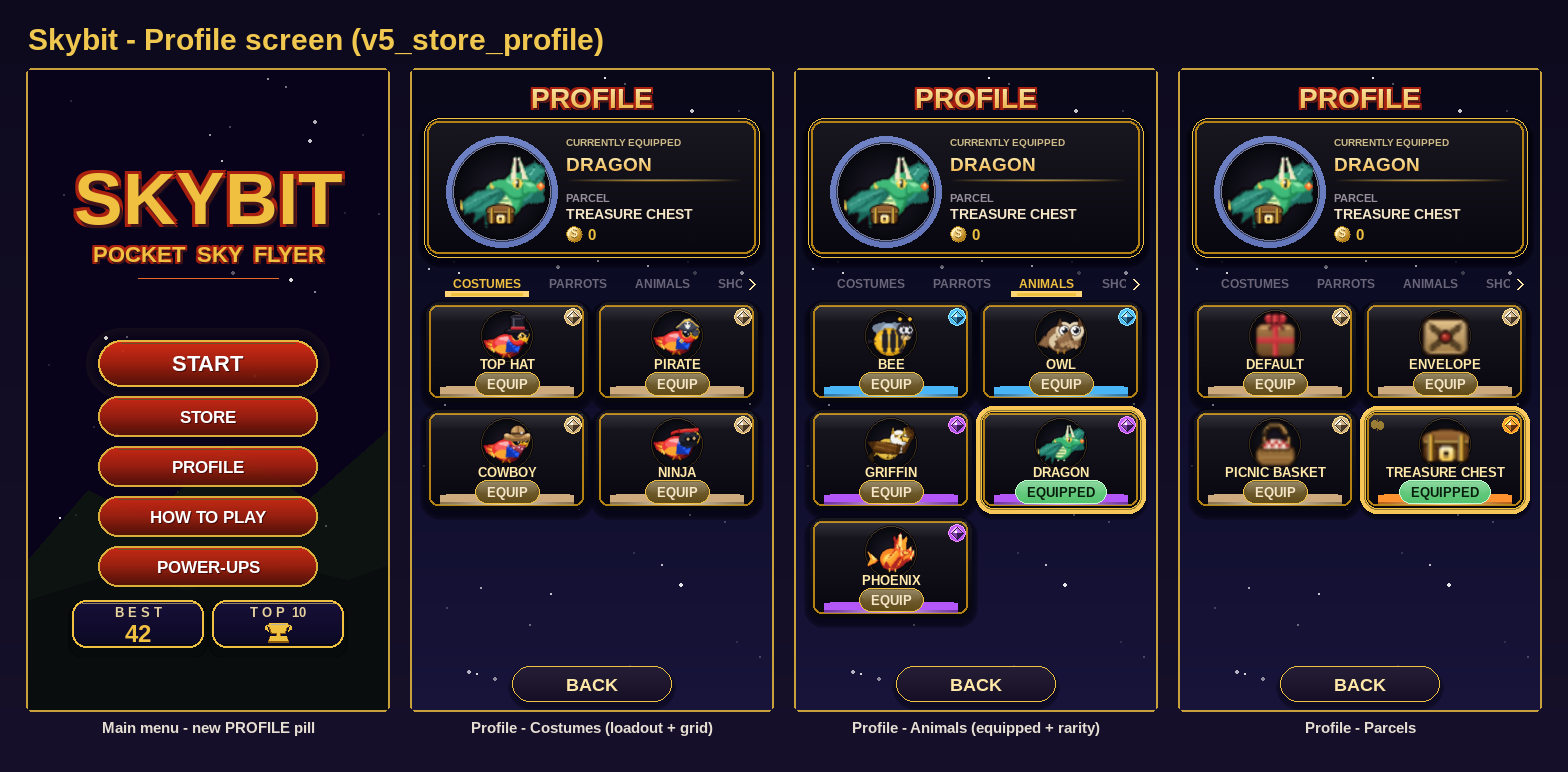
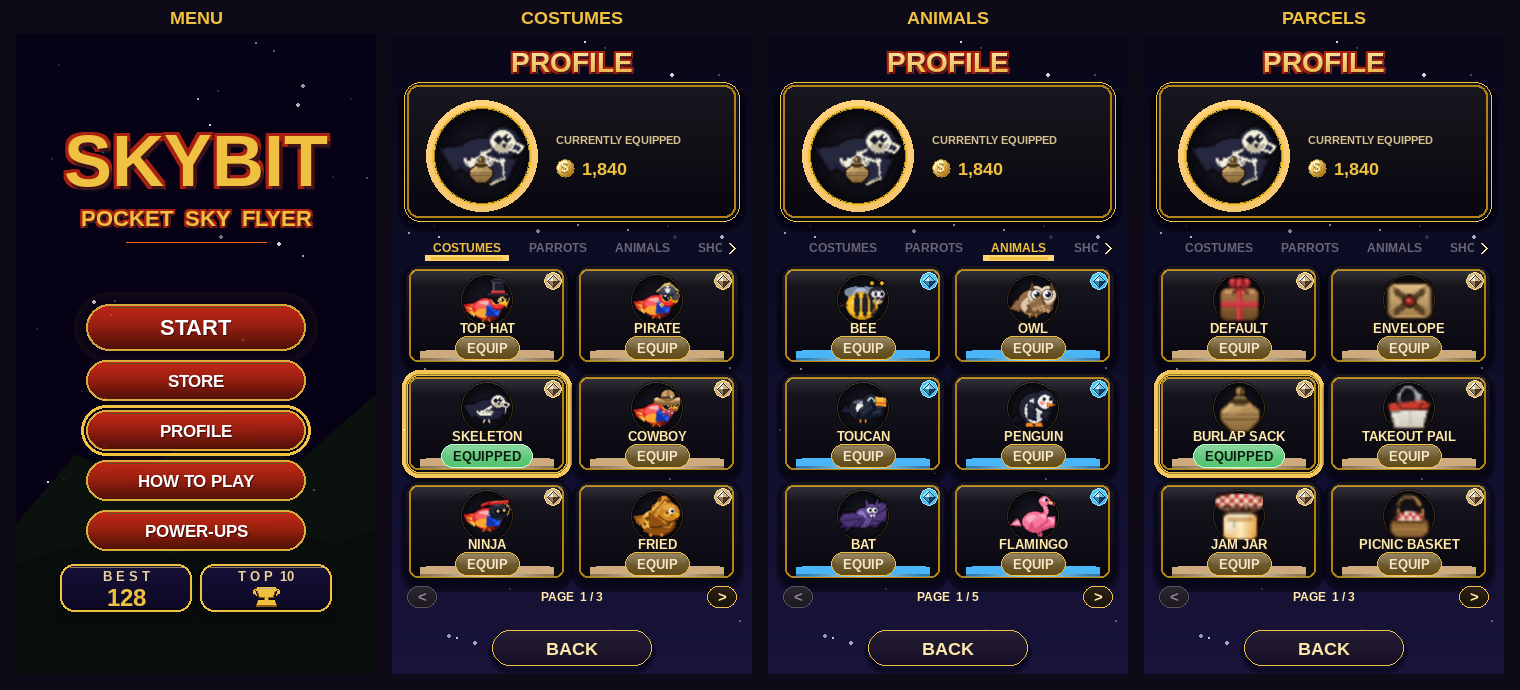
Profile loadout panel: drop item names, gold stage rim
The loadout stage named a single equipped skin + parcel, but a loadout is
several worn items at once, so naming one is misleading — the bird composite
on the disc already shows the full look. Remove the skin name, PARCEL
label/name, and the divider rule; the right column is now just a centred
CURRENTLY EQUIPPED caption over the coin balance, leaving the band free for a
future stats block.

Recolour the stage disc's halo + rim from periwinkle to warm gold: the old blue
read as the RARE rarity hue and muddied the rarity language. Refresh the review
figure to match.

Claude-Session: https://claude.ai/code/session_01AuwSUZ2K1MV3qNcDYtHTKX

diff --git a/game/profile.py b/game/profile.py
@@ -22,7 +22,7 @@ import pygame
 from game.config import W, H, PARCEL_Y_OFFSET
 from game.hud import _font, _draw_overlay_stars, \
     _GOLD_BRIGHT, _GOLD_PALE, _GOLD_DEEP, _RED_OUTLINE
-from game.draw import UI_CREAM, NEAR_BLACK, WHITE, rounded_rect, lerp_color
+from game.draw import NEAR_BLACK, WHITE, rounded_rect, lerp_color
 from game.powerup_help import _seeded_stars
 from game import parrot
 from game import store_catalog
@@ -31,7 +31,7 @@ from game import store_data
 # wholesale so the two screens can never drift apart.
 from game.store import (
     _vgrad_panel, _drop_shadow, _inset_disc, _shelf_bar, _gem, _gold_leaf,
-    _gradient_text, _gold_rule, _chip, _draw_chevron, _fit_skin, _slot_of,
+    _gradient_text, _chip, _draw_chevron, _fit_skin, _slot_of,
     _coin_glyph, _soft_glow,
     _CARD_W, _CARD_H, _GAP, _THUMB_BOX, _TABS, _BG_STOPS, _OBS_TOP, _OBS_BOT,
 )
@@ -180,9 +180,11 @@ class ProfileScene:
 
     def _draw_loadout(self, surf) -> None:
         """The persistent hero stage: a wide obsidian panel with the live bird on
-        a lit disc at the left, and the equipped skin/parcel names + coin balance
-        at the right. Always on screen so the player sees their current look while
-        they browse the grid below."""
+        a gold-rimmed disc at the left and a small CURRENTLY EQUIPPED caption over
+        the coin balance at the right. The bird itself is the readout of what's
+        worn — a loadout is several items at once, so no single item is named.
+        Always on screen so the player sees their current look while they browse
+        the grid below; the right band stays light for a future stats block."""
         panel = pygame.Rect(12, 48, W - 24, 140)
         _drop_shadow(surf, panel, 16, blur=6, alpha=140)
         surf.blit(_vgrad_panel(panel.w, panel.h, 16, _OBS_TOP, _OBS_BOT, 252),
@@ -197,10 +199,15 @@ class ProfileScene:
 
         # Lit stage disc + the animated bird (wings cycle off self.t at the
         # entity's idle flap rate; four frames, modulo'd by the skin builders).
+        # A warm-gold rim (not the old periwinkle halo, which read as the RARE
+        # rarity blue) keeps the perimeter in the screen's gold furniture without
+        # borrowing a rarity hue.
         stage_cx = panel.x + 78
         stage_cy = panel.centery + 4
-        _soft_glow(surf, stage_cx, stage_cy, 56, (90, 110, 170), 60, layers=5)
+        _soft_glow(surf, stage_cx, stage_cy, 56, (236, 190, 96), 46, layers=5)
         _inset_disc(surf, stage_cx, stage_cy, 50)
+        pygame.draw.circle(surf, (*_GOLD_BRIGHT, 220), (stage_cx, stage_cy), 50, 2)
+        pygame.draw.circle(surf, (*_GOLD_DEEP, 180), (stage_cx, stage_cy), 48, 1)
         fidx = int(self.t * 8.0) % 4
         sprite = self._loadout_sprite(skin, pid, fidx)
         box = 86
@@ -210,30 +217,18 @@ class ProfileScene:
             sprite, (max(1, int(sw * scale)), max(1, int(sh * scale))))
         surf.blit(sprite, sprite.get_rect(center=(stage_cx, stage_cy)))
 
-        # Right column: what's worn + the wallet.
-        tx = panel.x + 142
-        lbl = _font(10, True).render("CURRENTLY EQUIPPED", True, _GOLD_PALE)
-        lbl.set_alpha(200)
-        surf.blit(lbl, (tx, panel.y + 18))
-
-        sname = self._disp_name(skin)
-        _gradient_text(surf, sname, _font(19, True),
-                       (tx + _font(19, True).size(sname)[0] // 2, panel.y + 46),
-                       (255, 246, 196), (236, 170, 60), shadow=True)
-        _gold_rule(surf, tx, panel.right - 18, panel.y + 62)
-
-        pf = _font(11, True)
-        plabel = pf.render("PARCEL", True, (150, 142, 158))
-        surf.blit(plabel, (tx, panel.y + 74))
-        pname = _font(14, True).render(self._disp_name(pid), True, UI_CREAM)
-        surf.blit(pname, (tx, panel.y + 88))
-
-        # Coin balance — quieter than the Store's hero capsule (nothing is spent
+        # Right column: a compact group centred against the stage — the caption
+        # over the wallet. Quieter than the Store's hero capsule (nothing is spent
         # here), just a small ledger of what the player has banked.
-        by = panel.y + 116
-        _coin_glyph(surf, tx + 8, by, 8)
-        bimg = _font(15, True).render(f"{store_data.balance():,}", True, _GOLD_BRIGHT)
-        surf.blit(bimg, bimg.get_rect(midleft=(tx + 22, by)))
+        tx = panel.x + 152
+        gcy = stage_cy
+        lbl = _font(11, True).render("CURRENTLY EQUIPPED", True, _GOLD_PALE)
+        lbl.set_alpha(210)
+        surf.blit(lbl, (tx, gcy - 22))
+        by = gcy + 12
+        _coin_glyph(surf, tx + 9, by, 9)
+        bimg = _font(18, True).render(f"{store_data.balance():,}", True, _GOLD_BRIGHT)
+        surf.blit(bimg, bimg.get_rect(midleft=(tx + 26, by)))
 
     # ── tab strip (owned tabs only) ────────────────────────────────────────────
     def _draw_tabs(self, surf) -> None:
